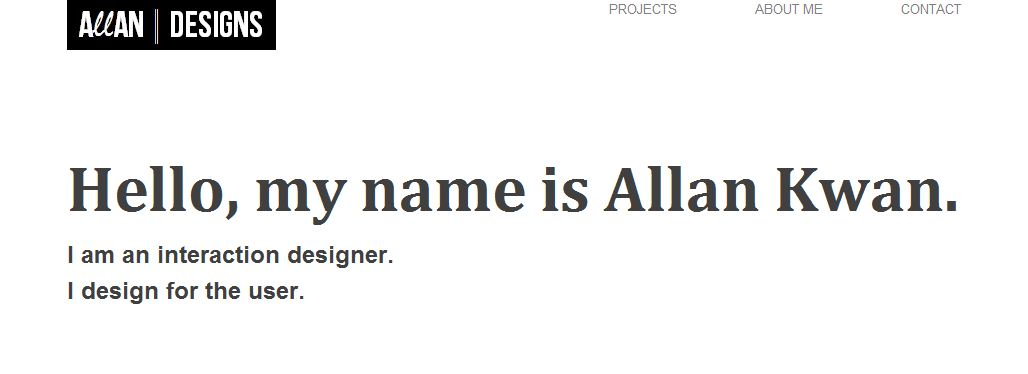
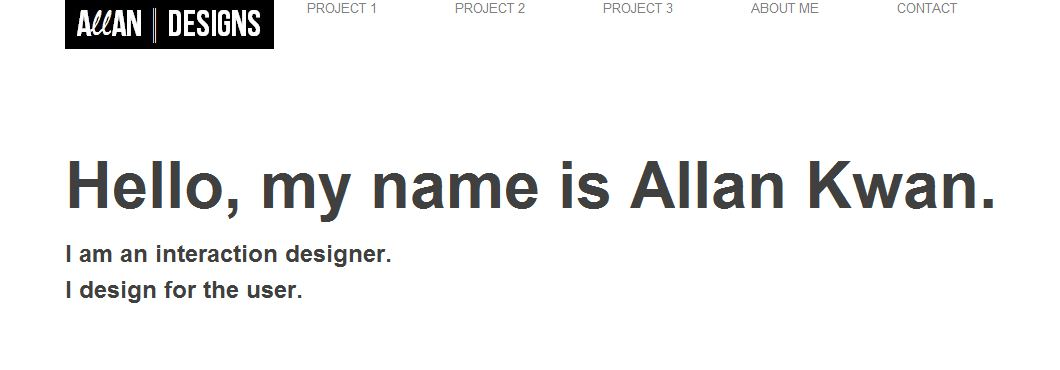
Added About Me

diff --git a/projects/allan_designs.html b/projects/allan_designs.html
@@ -2,7 +2,7 @@
 <html lang="en">
   <head>
     <meta charset="utf-8">
-    <title>Allan Designs</title>
+    <title>Allan Designs | Interaction Designer</title>
     <meta name="Allan Designs Project" content="Project Description">
     <meta name="Allan Kwan" content="Allan Kwan">
 
@@ -36,7 +36,7 @@
       <div class="row">
 
 		<div class="logo span2">
-			<a href="/index.html">		
+			<a href="../index.html">		
 				<img src="images/ALLAN.jpg">
 			</a>
 		</div>	
@@ -46,7 +46,7 @@
 				<li><a href="projects/allan_designs.html">PROJECT 1</a></li>
 				<li><a href="projects/allan_designs.html">PROJECT 2</a></li>				
 				<li><a href="projects/allan_designs.html">PROJECT 3</a></li>
-				<li><a href="projects/project_page.html">ABOUT ME</a></li>
+				<li><a href="projects/about_me.html">ABOUT ME</a></li>
 				<li><a href="projects/project_page.html">CONTACT</a></li>
 			</ul>
 		</div>	  
@@ -61,7 +61,22 @@
 		
 		<div class="allan span16">
           <a class="fancybox" href="../images/ALLAN_DESIGNS_TOP.jpg" data-fancybox-group="gallery" title="THIS IS THE TOP PARAGRAPH!"><img src="../images/ALLAN_DESIGNS_TOP-small.jpg" alt="AD-top" /></a>		
-          <a class="fancybox" href="../images/ALLAN_DESIGNS_BOTTOM.jpg" data-fancybox-group="gallery" title="Allan Designs Bottom"><img src="../images/ALLAN_DESIGNS_BOTTOM-small.jpg" alt="AD-bottom" /></a>		
+		  <a class="fancybox" href="../images/ALLAN_DESIGNS_BOTTOM.jpg" data-fancybox-group="gallery" title="Allan Designs Bottom"><img src="../images/ALLAN_DESIGNS_BOTTOM-small.jpg" alt="AD-bottom" /></a>		
+		<br></br>
+		<br></br>
+		<br></br>
+		<br></br>
+		<br></br>
+		<br></br>
+		<br></br>
+		<br></br>
+		<br></br>
+		<br></br>
+		<br></br>
+		<br></br>
+		<br></br>
+		<br></br>
+		<br></br>
 		</div>
 		
 		<div class="footer span16">

diff --git a/index.html b/index.html
@@ -2,7 +2,7 @@
 <html lang="en">
   <head>
     <meta charset="utf-8">
-    <title>Allan Designs</title>
+    <title>Allan Designs | Interaction Designer</title>
     <meta name="Portfolio" content="Allan Designs">
     <meta name="Allan Kwan" content="Allan Kwan">
 
@@ -32,12 +32,13 @@
   </head>
 
   <body>
+
     <div class="container">
 
       <div class="row">
 
 		<div class="logo span2">
-			<a href="/index.html">		
+			<a href="./index.html">		
 				<img src="images/ALLAN.jpg">
 			</a>
 		</div>	
@@ -47,7 +48,7 @@
 				<li><a href="projects/allan_designs.html">PROJECT 1</a></li>
 				<li><a href="projects/allan_designs.html">PROJECT 2</a></li>				
 				<li><a href="projects/allan_designs.html">PROJECT 3</a></li>
-				<li><a href="projects/project_page.html">ABOUT ME</a></li>
+				<li><a href="projects/about_me.html">ABOUT ME</a></li>
 				<li><a href="projects/project_page.html">CONTACT</a></li>
 			</ul>
 		</div>	  
@@ -88,7 +89,7 @@
 		  </p>
 		</div>	
 		  
-		  <div class="self span2 offset1">	
+		  <div class="self span1 offset1">	
 			<img src="images/SELF.jpg" alt="Allan Kwan"/>
 		  </div>	
 
@@ -109,6 +110,6 @@
       </div> <!-- end row -->
 
     </div> <!-- end container -->
-
+	
   </body>
 </html>

diff --git a/stylesheets/main.css b/stylesheets/main.css
@@ -1,7 +1,7 @@
 h1
 {
 font-size:65px;
-font-family:"Cambria";
+font-family:"Arial";
 margin-top:100px;
 }
 
@@ -34,12 +34,16 @@ margin-right:auto;
 margin-top:100px;
 margin-left:auto;
 margin-right:auto;
+}
 
+.contact
+{
+margin-top:100px;
 }
 
 .self
 {
-padding-top:100px;
+padding-top:90px;
 margin-top:0.8em;
 }
 
